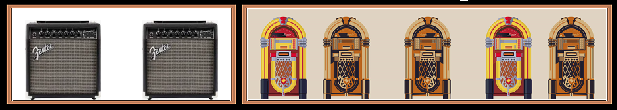
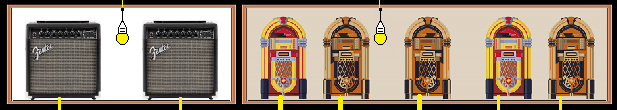
level 4 - progress 2/3

diff --git a/other/electrician/files/creators.js b/other/electrician/files/creators.js
@@ -180,4 +180,55 @@ class Creator {
 
         return building;
     }
+
+    //Level 4
+    static createElectronicsStore(physics){
+        let building = new Building('Electronics Store');
+        building.init(physics); // Initializes ladder and power lines
+
+       const musicFloorBuilder = new FloorBuilder();
+       building.floors.push(musicFloorBuilder.withName('music-floor').withCeilingConnector(6).withCeilingConnector(19)
+            .withBottomConnector(3).withBottomConnector(9).withBottomConnector(14).withBottomConnector(17)
+            .withBottomConnector(21).withBottomConnector(25).withBottomConnector(28).build());
+
+       const computerRoomBuilder = new FloorBuilder();
+       building.floors.push(computerRoomBuilder.withName('computer-room').withCeilingConnector(2).withCeilingConnector(7)
+            .withCeilingConnector(12).withCeilingConnector(20)
+            .withBottomConnector(26).build());
+
+       const groundFloorBuilder = new FloorBuilder();
+        building.floors.push(groundFloorBuilder.withName('nothing').build());
+
+       building.floors.forEach(floor => floor.init(physics));
+       building.floors.forEach(floor => floor.calculateFloorLevel());
+
+       const connectionPointsCounts = [2, 11, 1];
+       building.wires = building.floors.map((floor, index) => {
+           const aboveFloor = building.floors[index] || null;
+           const belowFloor = building.floors[index - 1] || null;
+           return new Wire(index, physics, belowFloor, aboveFloor, connectionPointsCounts[index]);
+       });
+
+        building.includeWiresInInfoFrame();
+
+        //const MID_FLOOR_LEVEL = 328 - Floor.HEIGHT / 2;
+        const ratsData = [
+            { id: 1, active: true, y: Building.GROUND_FLOOR_LEVEL, velocity: { x: 0.7 } },
+            { id: 2, active: true, y: Building.GROUND_FLOOR_LEVEL, velocity: { x: 0.8 } },
+            { id: 3, active: true, y: Building.GROUND_FLOOR_LEVEL, velocity: { x: 0.9 } },
+            { id: 4, active: true, y: Creator.LOW_FLOOR_LEVEL, velocity: { x: 0.7 }, wireId: 2},
+            { id: 5, active: true, y: Creator.HIGH_FLOOR_LEVEL, wireId: 0},
+            { id: 6, active: true, y: Creator.HIGH_FLOOR_LEVEL, wireId: 0, velocity: { x: 0.97 } }
+        ];
+
+        const batsData = [
+            { id: 0, active: true, speed: -0.007 },
+            { id: 1, active: true, speed: -0.006 },
+            { id: 2, active: true, speed: 0.003 }
+        ];
+
+        building.enemies = Creator.createEnemies(ratsData, batsData, physics);
+
+        return building;
+    }
 }

diff --git a/other/electrician/files/levels.js b/other/electrician/files/levels.js
@@ -284,7 +284,7 @@ class Level3Scene extends LevelScene{
 
     constructor() {
         super('Level3');
-        this.nextLevel = 'lvl1';
+        this.nextLevel = 'lvl4';
     }
 
     loadFloorImages(){
@@ -292,4 +292,29 @@ class Level3Scene extends LevelScene{
          this.load.image('floor1', 'files/livingRoom.png');
          this.load.image('floor2', 'files/kitchen.png');
     }
+}
+
+class Level4Scene extends LevelScene{
+
+    constructor() {
+        super('Level4');
+        this.nextLevel = 'lvl1';
+    }
+
+    loadFloorImages(){
+         this.load.image('floor0', 'files/music-floor.png');
+         this.load.image('floor1', 'files/computer-room.png');
+         this.load.image('floor2', 'files/computer-room.png');
+    }
+
+     create() {
+        this.physics.world.setBounds(0, 0, 800, 600);
+
+        this.building = Creator.createElectronicsStore(this.physics);
+
+        this.player = this.physics.add.sprite(100, 400, 'sprite');
+        this.player.setCollideWorldBounds(true);
+
+        this.cursors = this.input.keyboard.createCursorKeys();
+     }
 }

diff --git a/other/electrician/files/electrician.js b/other/electrician/files/electrician.js
@@ -1,4 +1,4 @@
-const levelsJson = {'lvl1' : Level1Scene, 'lvl2': Level2Scene, 'lvl3': Level3Scene}
+const levelsJson = {'lvl1' : Level1Scene, 'lvl2': Level2Scene, 'lvl3': Level3Scene, 'lvl4': Level4Scene}
 
 let level = sessionStorage.getItem("level");
 let levelObject = Level1Scene;
